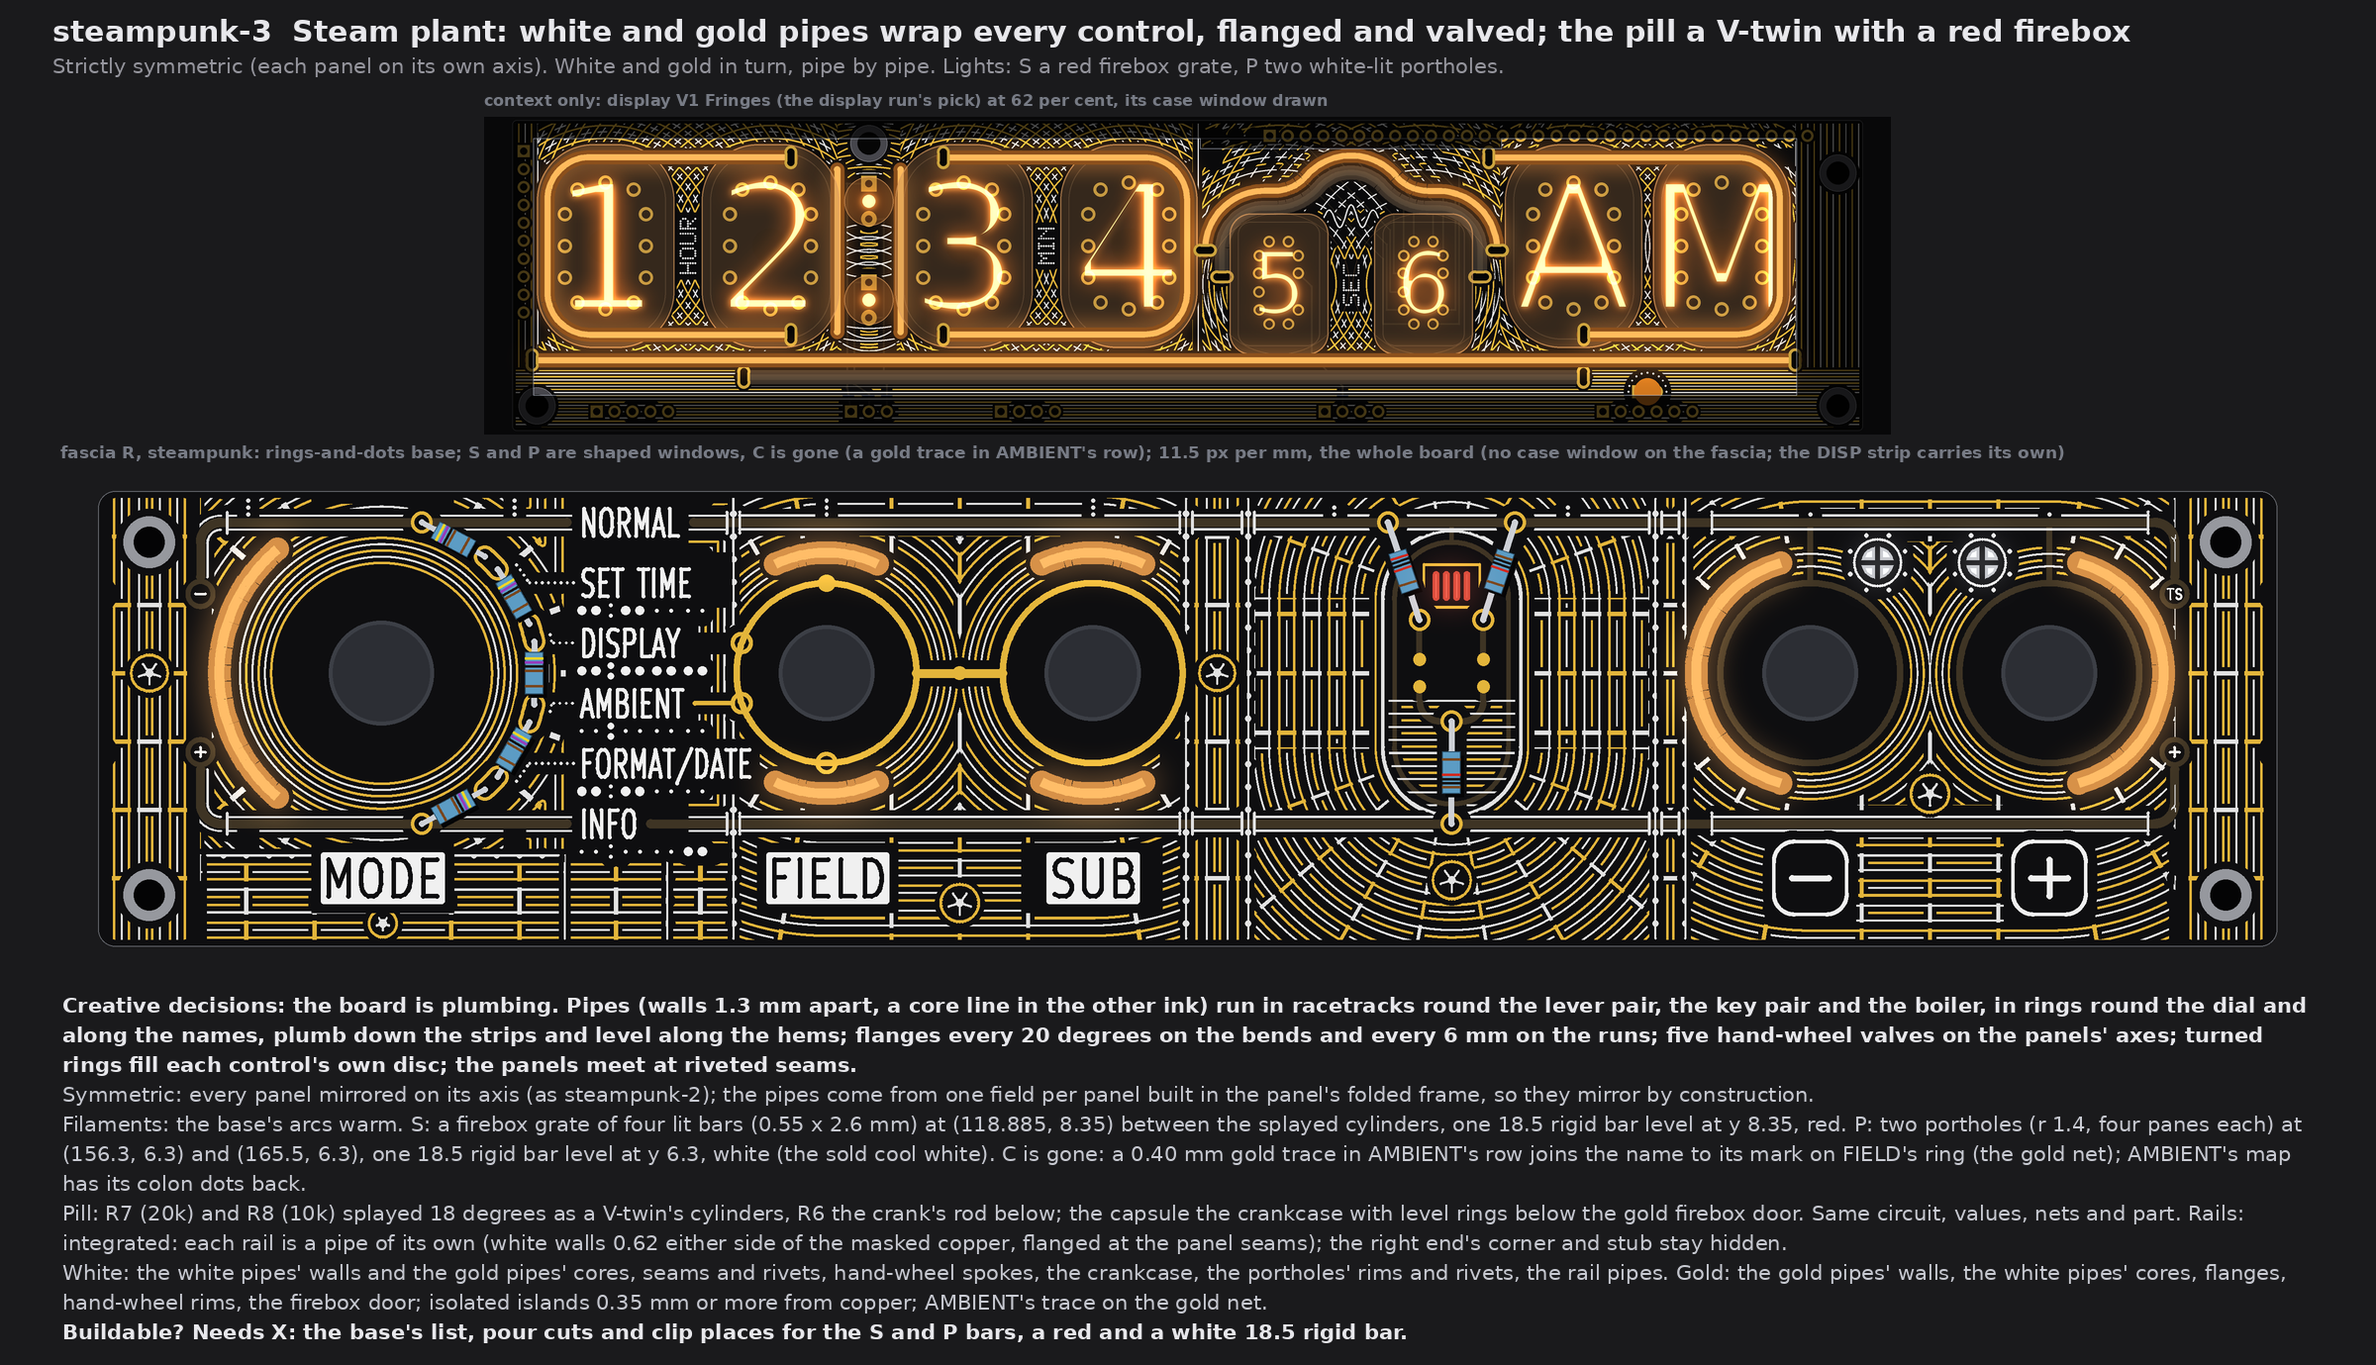
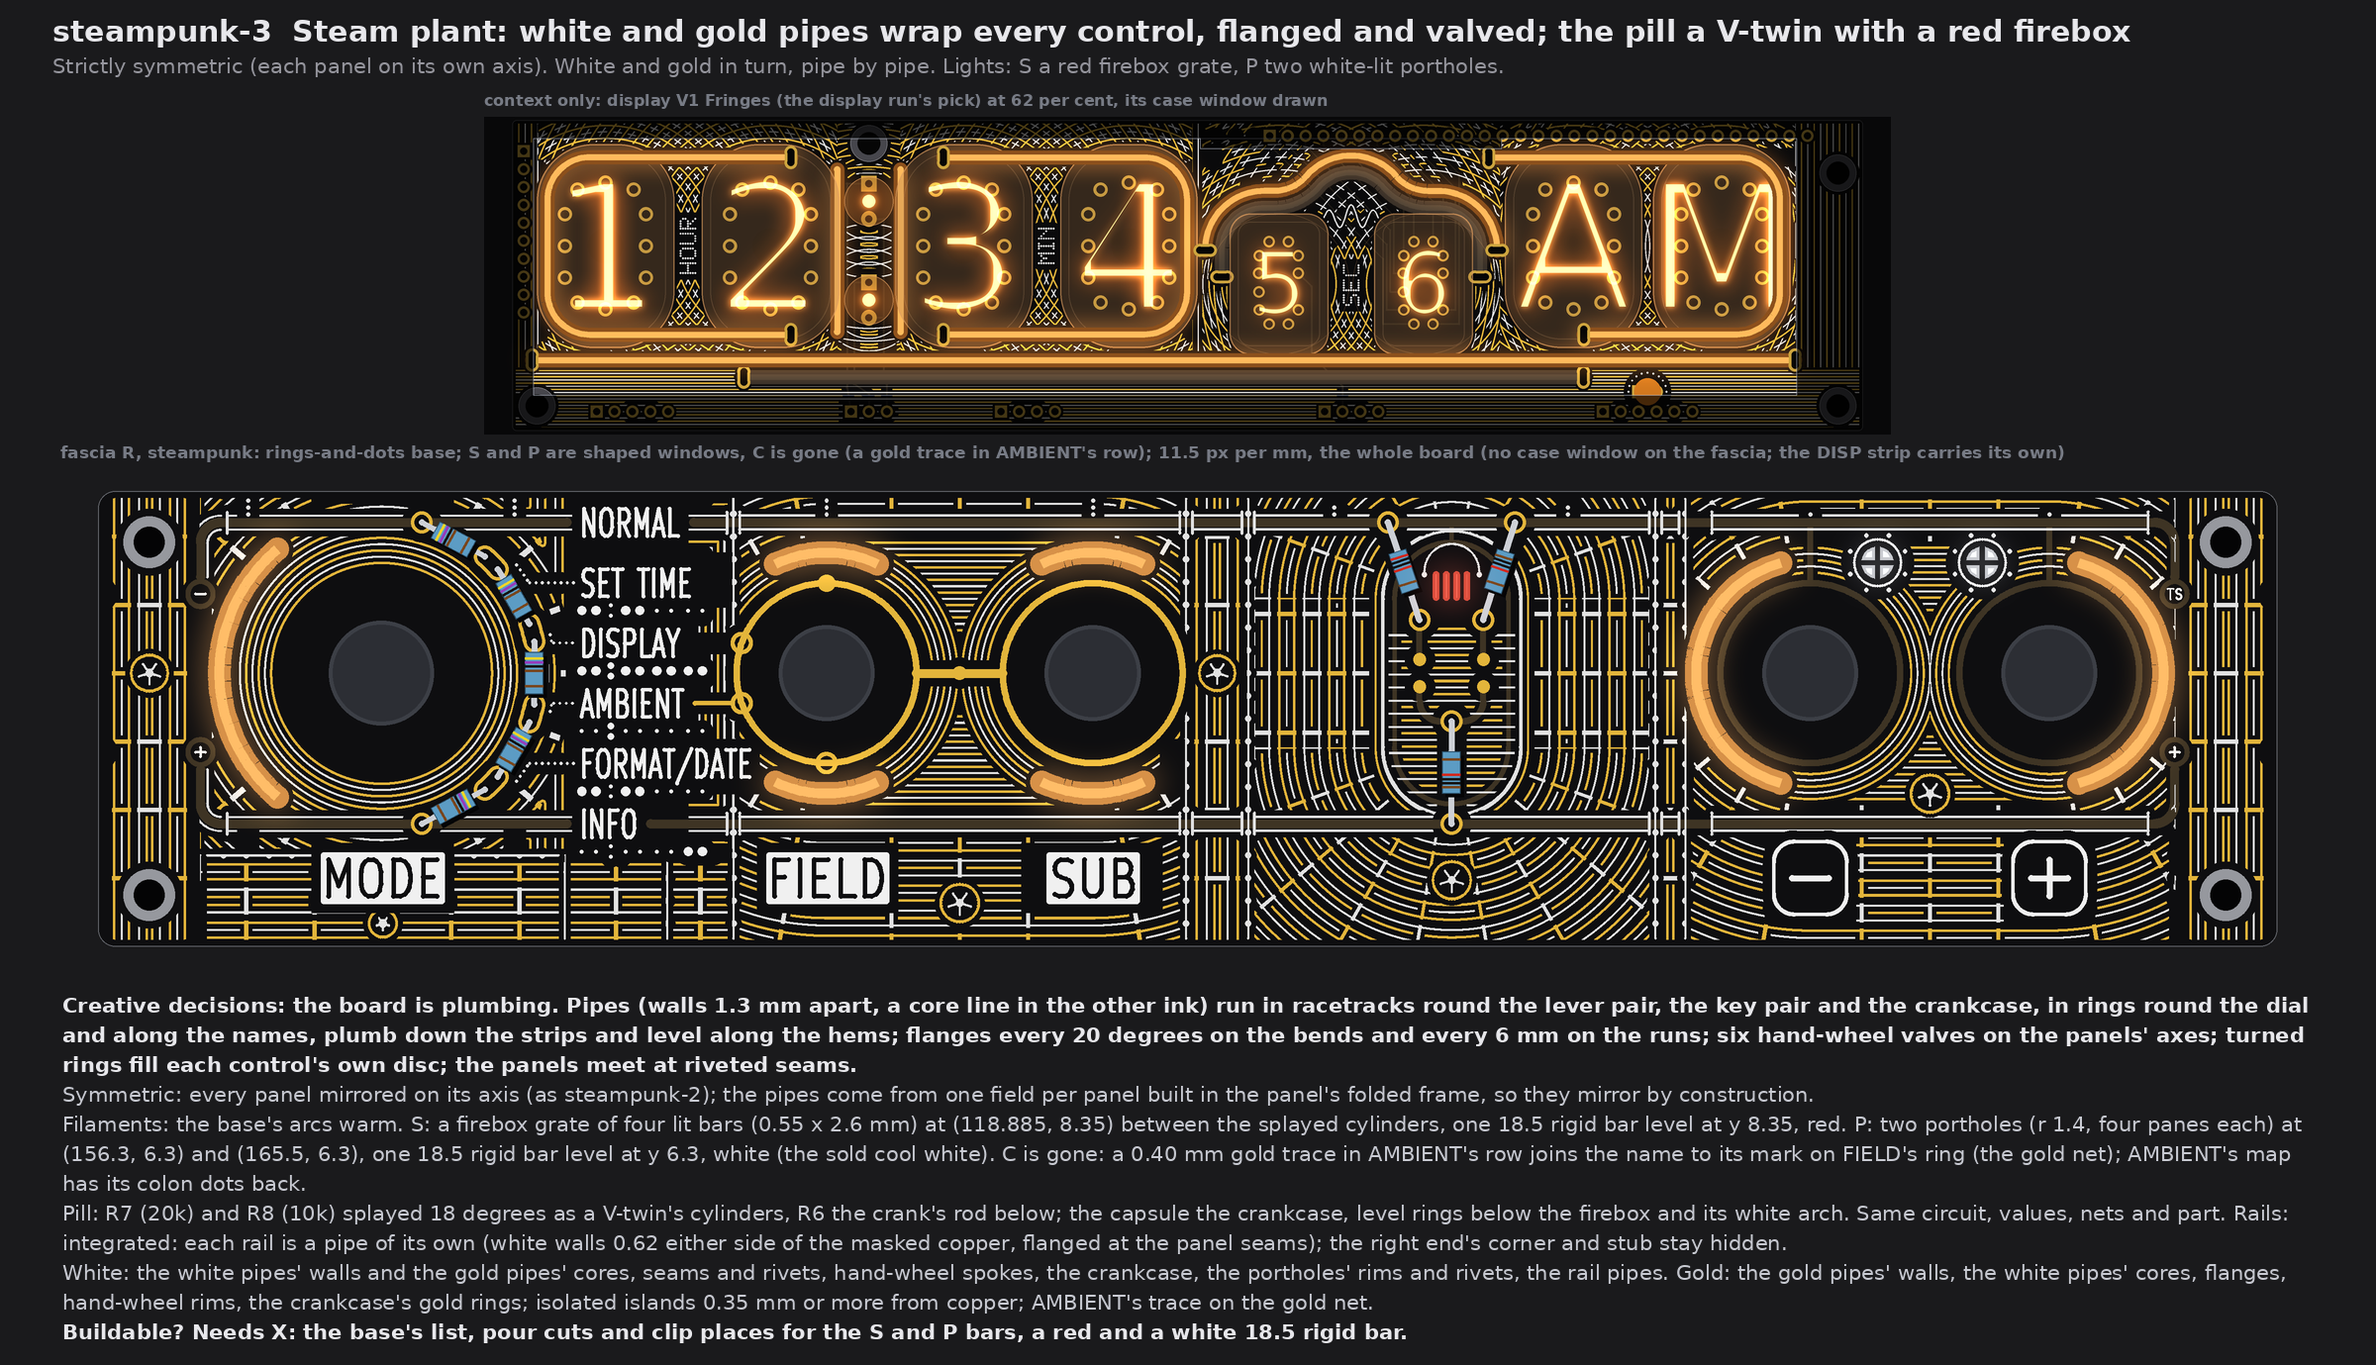
PCB/art: TS06 fascia steampunk write-up; faces redrawn after the full-size look (drawings only)
Claude-Session: https://claude.ai/code/session_01WoV3gyAFgmtuk6W6Dr4bdA

diff --git a/PCB/art/TS06-FASCIA-steampunk.md b/PCB/art/TS06-FASCIA-steampunk.md
@@ -1,0 +1,205 @@
+# TS06 fascia, steampunk: gear train, gauge plates, steam plant (drawings only, nothing built)
+
+2026-10-14, front round 3, run fascia-steampunk. The owner's theme list names steampunk with no words of its own; the brief reads it
+as gears, gauges, rivets, pipes, pressure dials and brass plates, all original, no brands. Three wild faces that differ by motif,
+symmetry, what the lights draw, white-led or gold-led, colours, the pill and the rails. Art covers the whole board; every name,
+plate, map and E1's gold stands on its own calm ground.
+
+Queue changes A1 to A5 are in on every face: no top-edge dots (S and P light shaped windows), the pill rearranged and filled, the
+rails hidden, shown or integrated, display V1 Fringes in the strip above each face, and **the AMBIENT cutout C gone, with a gold trace
+in its row** (section 1). The owner's later word on kawaii-2 (21:5x UTC, the x-marked circles drawn only for symmetry: "unnecessary
+standoff mirrors") is taken here too: the symmetric faces need no decoy at a screw's mirror point (section 1).
+
+Each face is fascia R with the owner's rings-and-dots (front-merge section 6), drawn from the board file's copy that pass 4 used, at
+one scale (11.5 px per mm), windows lit. No board, schematic, fab, tool, 3D, firmware or spec file was touched. The scripts are
+scratch (copies of the kawaii-2 run's, plus a new steampunk script), not in the repo. Marks: *measured* is from the drawing's
+raster (23 px per mm) or the board file; *inferred* is arithmetic; *assumed* is my reading.
+
+![The three faces at one scale](TS06-FASCIA-steampunk/contact-sheet.png)
+
+## 1. What every face keeps
+
+* **Fixed:** the outline, holes, controls and their places, J1, the names, plates, key legends, tube maps, dot leaders and the
+  top-edge tube index; FIELD's and SUB's gold rings, the link, the four SUB marks on FIELD's ring and the GND via.
+* **The AMBIENT cutout is gone (A5),** as in kawaii-2:
+  * window C at (45.04, 21.2) and its tail are removed; the mask and the pour close over it;
+  * AMBIENT's tube map gets back its two colon dots (45.04, 20.65 and 21.55), as on every other map;
+  * **a 0.40 mm gold trace** runs level at y 18.645 from x 52.43 to 55.75, where it meets the outer edge of AMBIENT's circle mark on
+    FIELD's ring, so it is on the gold net (GND through the link's via);
+  * *measured:* 0.78 mm from the name and the map, 10.0 mm from other copper, 0.78 mm or more from the art.
+* **The panels of the symmetric faces (2 and 3).** Each panel is mirrored on its own axis. The two end strips (x 0 to 9.0 and
+  182.4 to 191.4) are panels whose axes run through the screws (x 4.5 and 186.9), so each screw mirrors onto itself. No panel needs
+  a decoy at a screw's mirror point. The panels and axes:
+  * the dial panel (x 9.0 to 55.8, y 0 to 32), mirrored on the control row y 16;
+  * the others plumb: the hems below it (axes 24.99, 45.48, 52.89), levers 75.68, column 98.28, pill 118.885, a 2.6 mm seam strip
+    138.085, keys 160.9.
+* **Channels on the new fascia connector** (J1 is full; front-merge items 10 and 11), grouping *assumed* as the earlier runs':
+  1 MODE, 2 FIELD up + down, 3 SUB up + down, 4 the two keys, **5 S + P (C dropped)**, 6 spare. Nothing comes from DISP.
+* **5 V:** nine fascia filaments instead of ten, so 20 mA less than the base at 20 mA each (*inferred*). No face adds a filament.
+* **Fab note (once):** bare-FR4 windows still need the fab's yes (pass 1's coupon). Not decided here.
+
+## 2. steampunk-1 Gear train
+
+![steampunk-1](TS06-FASCIA-steampunk/steampunk-1-gear-train.png)
+
+* **Creative decisions:** a clockwork train over the whole board.
+  * The MODE dial is the main wheel: 96 teeth and nine curved spokes.
+  * FIELD (74 teeth) meshes SUB (68 teeth). They share one module, and the pitch circles meet on the link (centres 23.38 apart).
+  * The - key (60 teeth) meshes the + key (66 teeth), centres 21.0 apart.
+  * 126 packed wheels fill the other gaps (r 1.0 to 5.6 mm). By size they get spokes, lightening holes or turned rings.
+  * 252 rivets and hex nuts fill the last gaps.
+* **Fully organic.** One random packing sets every wheel's place, size and turn, with no mirror anywhere. The meshed pairs have
+  different tooth counts, so even they do not mirror.
+* **Filaments:**
+  * The MODE arc, FIELD and SUB arcs and the key arcs are warm (the base).
+  * **S is red:** a lit cog with five sectors between spokes (r 0.8 to 2.05) at (106.3, 6.6). It sits 2.3 mm left of and 2.1 mm
+    below the old dot. One 18.5 rigid bar lies level at y 6.6 (x 97.05 to 115.55).
+  * **P is warm:** two lit cogs at (157.7, 5.6) and (164.05, 7.1), behind them one 18.5 rigid bar level at y 6.35 (x 151.65 to
+    170.15).
+* **Pill:** R6, R7 and R8 are all slanted 20 degrees, parallel, as the connecting rods of an inclined cylinder. Its bore is hatched
+  along them in white and gold.
+  * R7's and R8's top pads slide 3.08 mm left along the GND rail (to 113.01 and 118.61). Their lower pads rise 0.55 mm and still
+    cover the landing tracks' ends.
+  * R6's bottom pad slides 3.08 mm right along the +5V rail (to 121.96). Its top pad (A7) moves 0.55 mm down, and the A7 bus under
+    the mask follows it.
+  * The circuit, values, nets and part do not change (*inferred* from the art model).
+* **Rails: hidden** under the mask, as in E1; the gears run over them.
+* **White:** the gear outlines, spokes, rims, the dial's spokes, the hex nuts and the pill's hatch (0.18 to 0.2 mm).
+* **Gold:** SUB's and the - key's rims, 16 of the packed wheels, hubs, lightening holes and rivet heads (0.22 to 0.24 mm). All are
+  isolated islands 0.34 mm or more from copper, plus AMBIENT's trace.
+* **Buildable? Needs X:**
+  * the base's list (front-merge items 9 to 11);
+  * pour cuts and clip places for the S and P bars;
+  * a red 18.5 rigid bar;
+  * C's cut and tail are dropped.
+
+![steampunk-1 at 2x](TS06-FASCIA-steampunk/detail-2x.png)
+
+## 3. steampunk-2 Gauge plates
+
+![steampunk-2](TS06-FASCIA-steampunk/steampunk-2-gauge-plates.png)
+
+* **Creative decisions:** an engine-room control panel.
+  * The MODE dial is a big pressure gauge: ticks every 5 degrees, gold majors every 30, a white and a gold bezel, and a turned face.
+  * FIELD and SUB are twin gauges in one spectacle housing; so are the keys. Each gauge keeps to its own side of the pair's axis.
+  * The pill is a riveted boiler with a lit water-level glass.
+  * A flanged steam pipe runs down the column.
+  * Everything else is tread plate (lozenges at plus and minus 45 degrees, white and gold in turn) on riveted plates, one plate per
+    panel.
+* **Strictly symmetric:** every panel is mirrored on its axis (section 1). *Measured:* no ink pixel in any panel lacks its mirror
+  partner within 2 px.
+* **Filaments:**
+  * The base's arcs are warm.
+  * **S is green:** a sight glass 1.2 x 6.4 mm at x 118.885, y 5.2 to 11.6, between R7 and R8. One 18.5 rigid bar lies level at
+    y 8.35 (x 109.64 to 128.13).
+  * **P is warm:** a gauge between the keys, its 270-degree scale lit (r 2.15 to 3.0) about (160.9, 6.75), with a fixed gold
+    needle. One 18.5 rigid bar lies level at y 6.75.
+* **Pill:** E1's places. R7 and R8 stand at the top as the glass's guards and R6 at the bottom. The capsule is drawn as the boiler
+  with staves and a rivet ring. Nothing moves; the circuit is unchanged.
+* **Rails: shown, white.** A 0.3 mm white line runs over each masked rail where it has a mirror twin. The right end's corner and
+  stub stay hidden. The tread keeps 0.45 mm off.
+* **White:** plate borders and rivets, minor ticks, the white bezels, turned-face rings, half the tread, the boiler, the pipe walls
+  and the rails' lines.
+* **Gold:** major ticks, the gold bezels, the other half of the tread and rings, the needle, the pipe's flanges and core. All are
+  isolated islands 0.35 mm or more from copper, plus AMBIENT's trace.
+* **Buildable? Needs X:** the base's list, pour cuts and clip places for the S and P bars, and a green 18.5 rigid bar.
+  * *Assumed:* the glass (6.4 mm tall) and the P scale (5.1 mm tall) glow evenly enough from a 2.0 mm bar through the FR4; the
+    bench decides.
+
+## 4. steampunk-3 Steam plant
+
+![steampunk-3](TS06-FASCIA-steampunk/steampunk-3-steam-plant.png)
+
+* **Creative decisions:** the board is plumbing.
+  * Each pipe has walls 1.3 mm apart and a core line in the other ink. White pipes and gold pipes alternate.
+  * The pipes run in racetracks round the lever pair, the key pair and the crankcase. They make rings round the dial and runs along
+    the names, run plumb down the strips and level along the hems.
+  * Flanges sit every 20 degrees on the bends and every 6 mm on the runs.
+  * Six hand-wheel valves sit on the panels' axes.
+  * Turned rings fill each control's own disc and the waist between each pair.
+  * The panels meet at riveted seams.
+* **Strictly symmetric:** every panel is mirrored on its axis (section 1). The pipes come from one field per panel, built in the
+  panel's folded frame, so they mirror by construction. *Measured:* no ink pixel lacks its mirror partner within 2 px.
+* **Filaments:**
+  * The base's arcs are warm.
+  * **S is red:** a firebox grate of four lit bars (0.55 x 2.6 mm) at (118.885, 8.35), between the splayed cylinders, under a white
+    arch. One 18.5 rigid bar lies level at y 8.35.
+  * **P is white** (the sold cool white): two portholes (r 1.4, four panes each) at (156.3, 6.3) and (165.5, 6.3), with riveted
+    rims. One 18.5 rigid bar lies level at y 6.3.
+* **Pill:** R7 (20k) and R8 (10k) are splayed 18 degrees as a V-twin's cylinders, and R6 is the crank's rod below. The capsule is
+  the crankcase, with level rings below the firebox. The circuit, values, nets and part do not change.
+* **Rails: integrated.** Each rail is a pipe of its own: white walls 0.62 mm either side of the masked copper, flanged at the panel
+  seams. The right end's corner and stub stay hidden.
+* **White:** the white pipes' walls and the gold pipes' cores, seams and rivets, hand-wheel spokes, the crankcase, the firebox
+  arch, the portholes' rims and rivets, and the rail pipes.
+* **Gold:** the gold pipes' walls, the white pipes' cores, flanges, hand-wheel rims and the crankcase's gold rings. All are isolated
+  islands 0.35 mm or more from copper, plus AMBIENT's trace.
+* **Buildable? Needs X:** the base's list, pour cuts and clip places for the S and P bars, and a red and a white 18.5 rigid bar.
+
+## 5. The light base and what each face changes
+
+![The fascia's back: base and changes](TS06-FASCIA-steampunk/lights-back.png)
+
+The MODE arc, the four lever arcs and the two key arcs do not change on any face. S and P are the only lights that move. Each is one
+18.5 rigid bar (the shortest sold), lying level behind its window, on channel 5.
+
+| Face | S window, place, bar | P window, place, bar |
+|---|---|---|
+| base | dot (108.6, 4.5) | dot (160.9, 4.5) |
+| steampunk-1 | lit cog (106.3, 6.6); bar x 97.05 to 115.55, y 6.6 | two lit cogs (157.7, 5.6), (164.05, 7.1); bar x 151.65 to 170.15, y 6.35 |
+| steampunk-2 | sight glass x 118.885, y 5.2 to 11.6; bar x 109.64 to 128.13, y 8.35 | gauge scale about (160.9, 6.75); bar x 151.65 to 170.15, y 6.75 |
+| steampunk-3 | firebox grate (118.885, 8.35); bar x 109.64 to 128.13, y 8.35 | two portholes (156.3, 6.3), (165.5, 6.3); bar x 151.65 to 170.15, y 6.3 |
+
+**On the back,** each window needs a pour cut and two clip places at its bar's ends. C's cut and tail are dropped.
+
+**Colours each face ships with:**
+* steampunk-1: warm + red (S red);
+* steampunk-2: warm + green (S green);
+* steampunk-3: warm + red + white (S red, P white).
+
+All are sold as 18.5 rigid bars (front-merge section 5).
+
+**The bars' fit** (*measured* on the art model, gap from the bar's 2.0 mm body to the nearest plated pad, r 0.95; rule 0.4):
+
+| Face | S bar to a pad | P bar to a pad | P bar to a key's footprint (r 6.2) |
+|---|---|---|---|
+| steampunk-1 | 1.88 (R7's top pad, moved) | 26 or more | 2.54 |
+| steampunk-2 | 1.47 (R8's lower pad) | 26 or more | 2.14 |
+| steampunk-3 | 1.03 (R8's lower pad) | 26 or more | 2.59 |
+
+* steampunk-1's S bar stays 6.6 mm outside SUB's lever footprint.
+* *Measured* on the ordered board (`R-open`) by kawaii-2: there are no tracks or vias on the back in x 100 to 140, y 0 to 22, only
+  the GND pour.
+
+## 6. The checks (*measured* on the raster, 23 px per mm)
+
+| Check | Rule | steampunk-1 | steampunk-2 | steampunk-3 |
+|---|---|---|---|---|
+| White, gold to a name, plate, key legend, tube map, leader or index dot | 0.75 | 0.80, 0.99 | 0.78, 0.81 | 0.80, 0.80 |
+| White, gold to E1's exposed gold (rings, link, marks, pads, AMBIENT's trace) | 0.30 (frame 0.75 drawn) | 0.74, 0.74 | 0.74, 0.75 | 0.74, 0.74 |
+| Pattern gold to copper | 0.30 | 0.34 | 0.35 | 0.35 |
+| White, gold to a lit window | 0.35 | 0.39, 0.40 | 0.39, 0.39 | 0.40, 0.40 |
+| White to the pattern's gold | 0.30 | 0.31 | 0.31 | 0.31 |
+| Lit window to copper; to a legend | 0.30 | 0.48; 1.17 | 0.48; 1.17 | 0.68; 1.17 |
+| AMBIENT's trace to a legend; to other copper | 0.75; 0.30 | 0.78; 10.0 | 0.78; 10.0 | 0.78; 10.0 |
+| Free board within 1.2 mm of some ink | (no empty space) | 98.1 % | 98.8 % | 99.0 % |
+| Mirror misses (share of a panel's ink with no partner within 2 px) | 0 | (organic) | 0 in every panel | 0 in every panel |
+
+* White over the masked copper (the rails, the pill's GND capsule, the A7 bus) is allowed, as in E1.
+* What stays dark, as before, is the ring of mask between each knob and its window.
+
+## 7. My pick
+
+**steampunk-1 Gear train.** It is the most steampunk at arm's length: every control is the hub of a wheel, FIELD visibly drives SUB
+and - drives +, and the packed wheels fill the board with nothing mirrored and every name on clear ground. steampunk-2 Gauge plates is
+the calm, exact alternative (each control reads as a gauge), and steampunk-3 Steam plant is the most gold.
+
+## 8. Left open, assumed
+
+* *Assumed:* the S and P lights are 18.5 rigid bars lying level behind their windows, on channel 5, as in kawaii-2.
+* *Assumed:* the AMBIENT trace's place (section 1), as kawaii-2 read it.
+* The rearranged pills are drawn on the art model's places (E1). The ordered board (`R-open`) still has R6 to R8 elsewhere, as 1206
+  parts on the back; the board-change run places them.
+* The pattern's gold is isolated islands (no net). Stems to GND can be added if the fab wants no floating copper; not drawn.
+* The smallest strokes (0.16 to 0.18 mm silk) are at the fab's silk limit used before (0.15).
+* Not checked: KiCad DRC (no board file was edited), and the back's own copper behind the moved windows beyond section 5.
